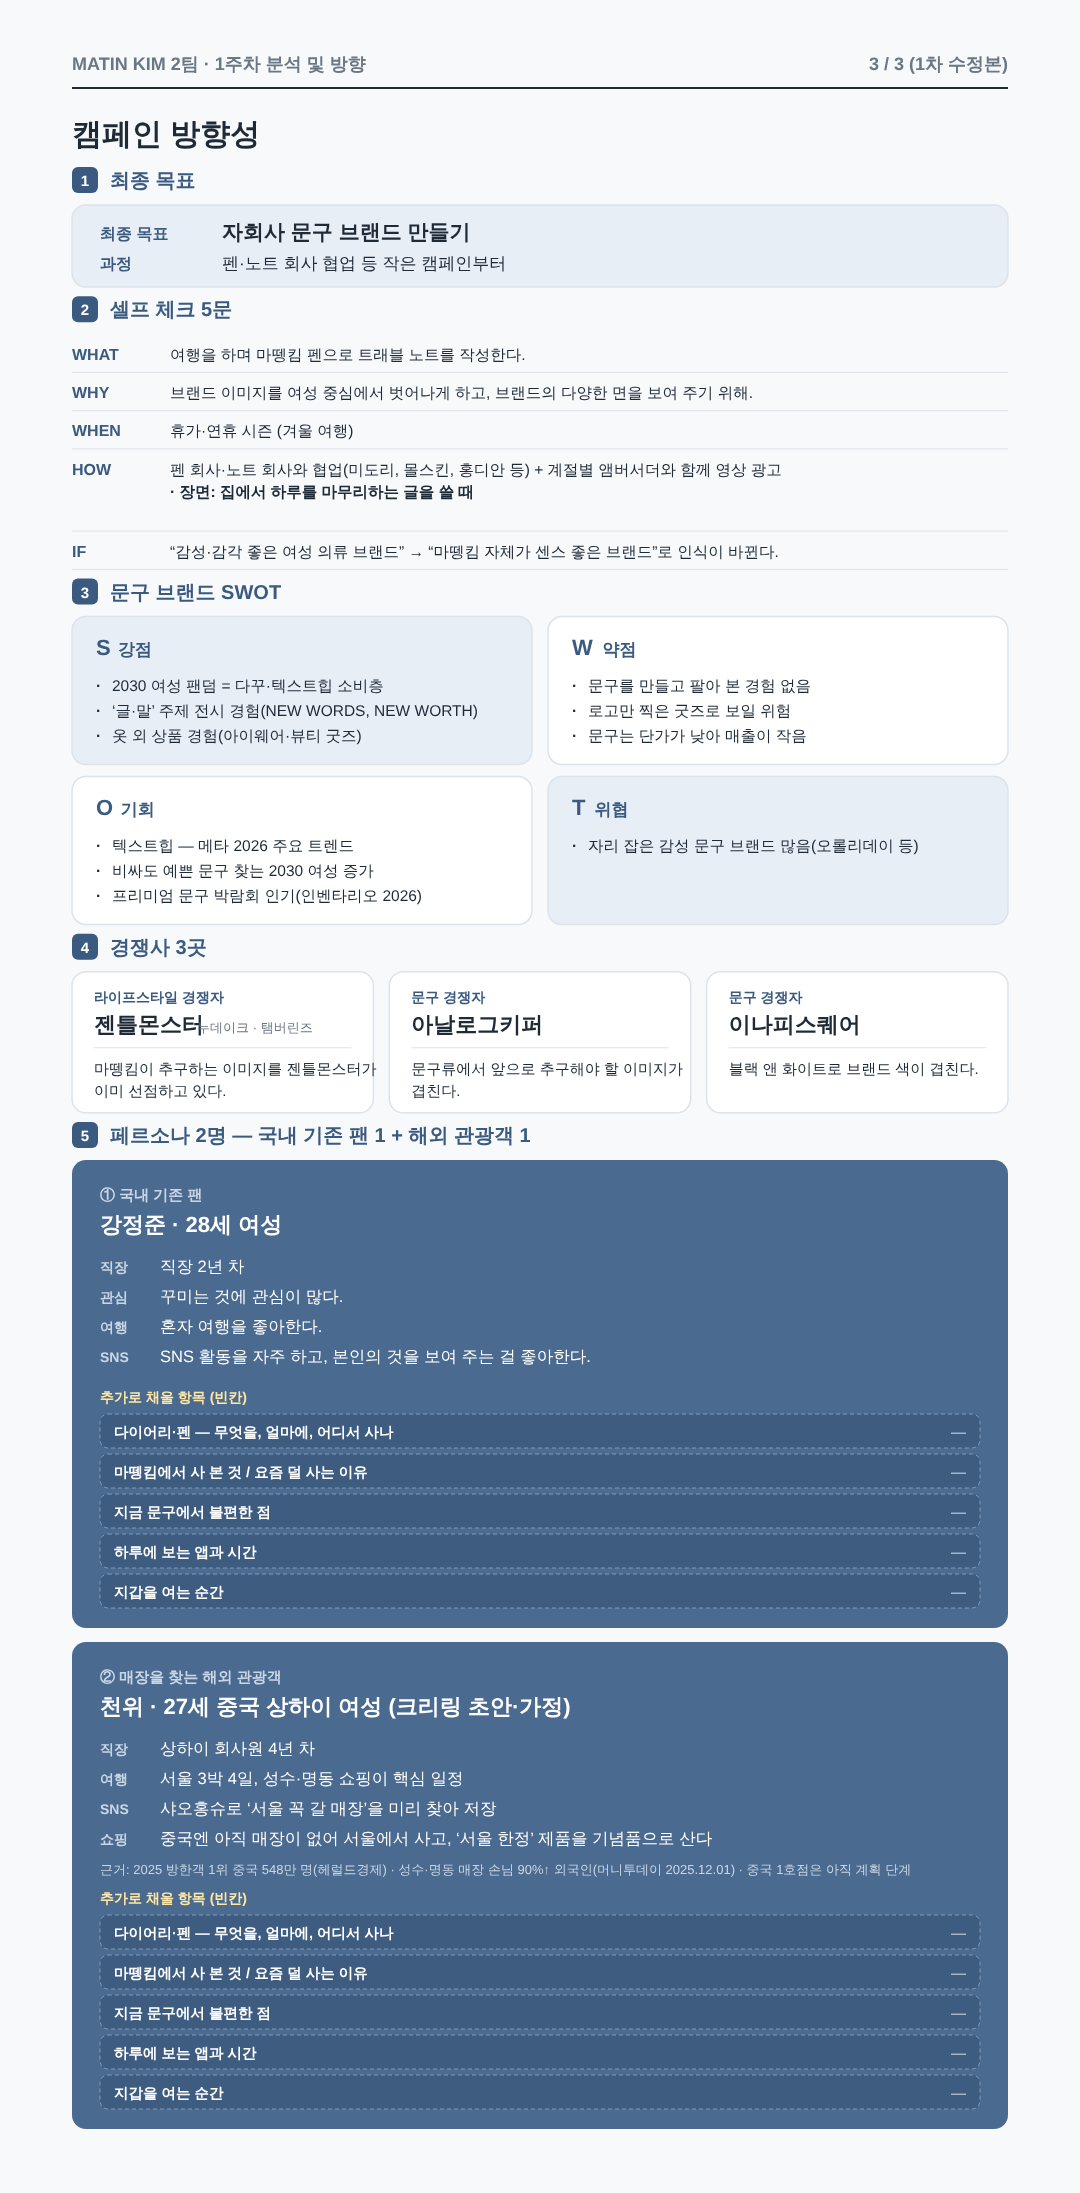
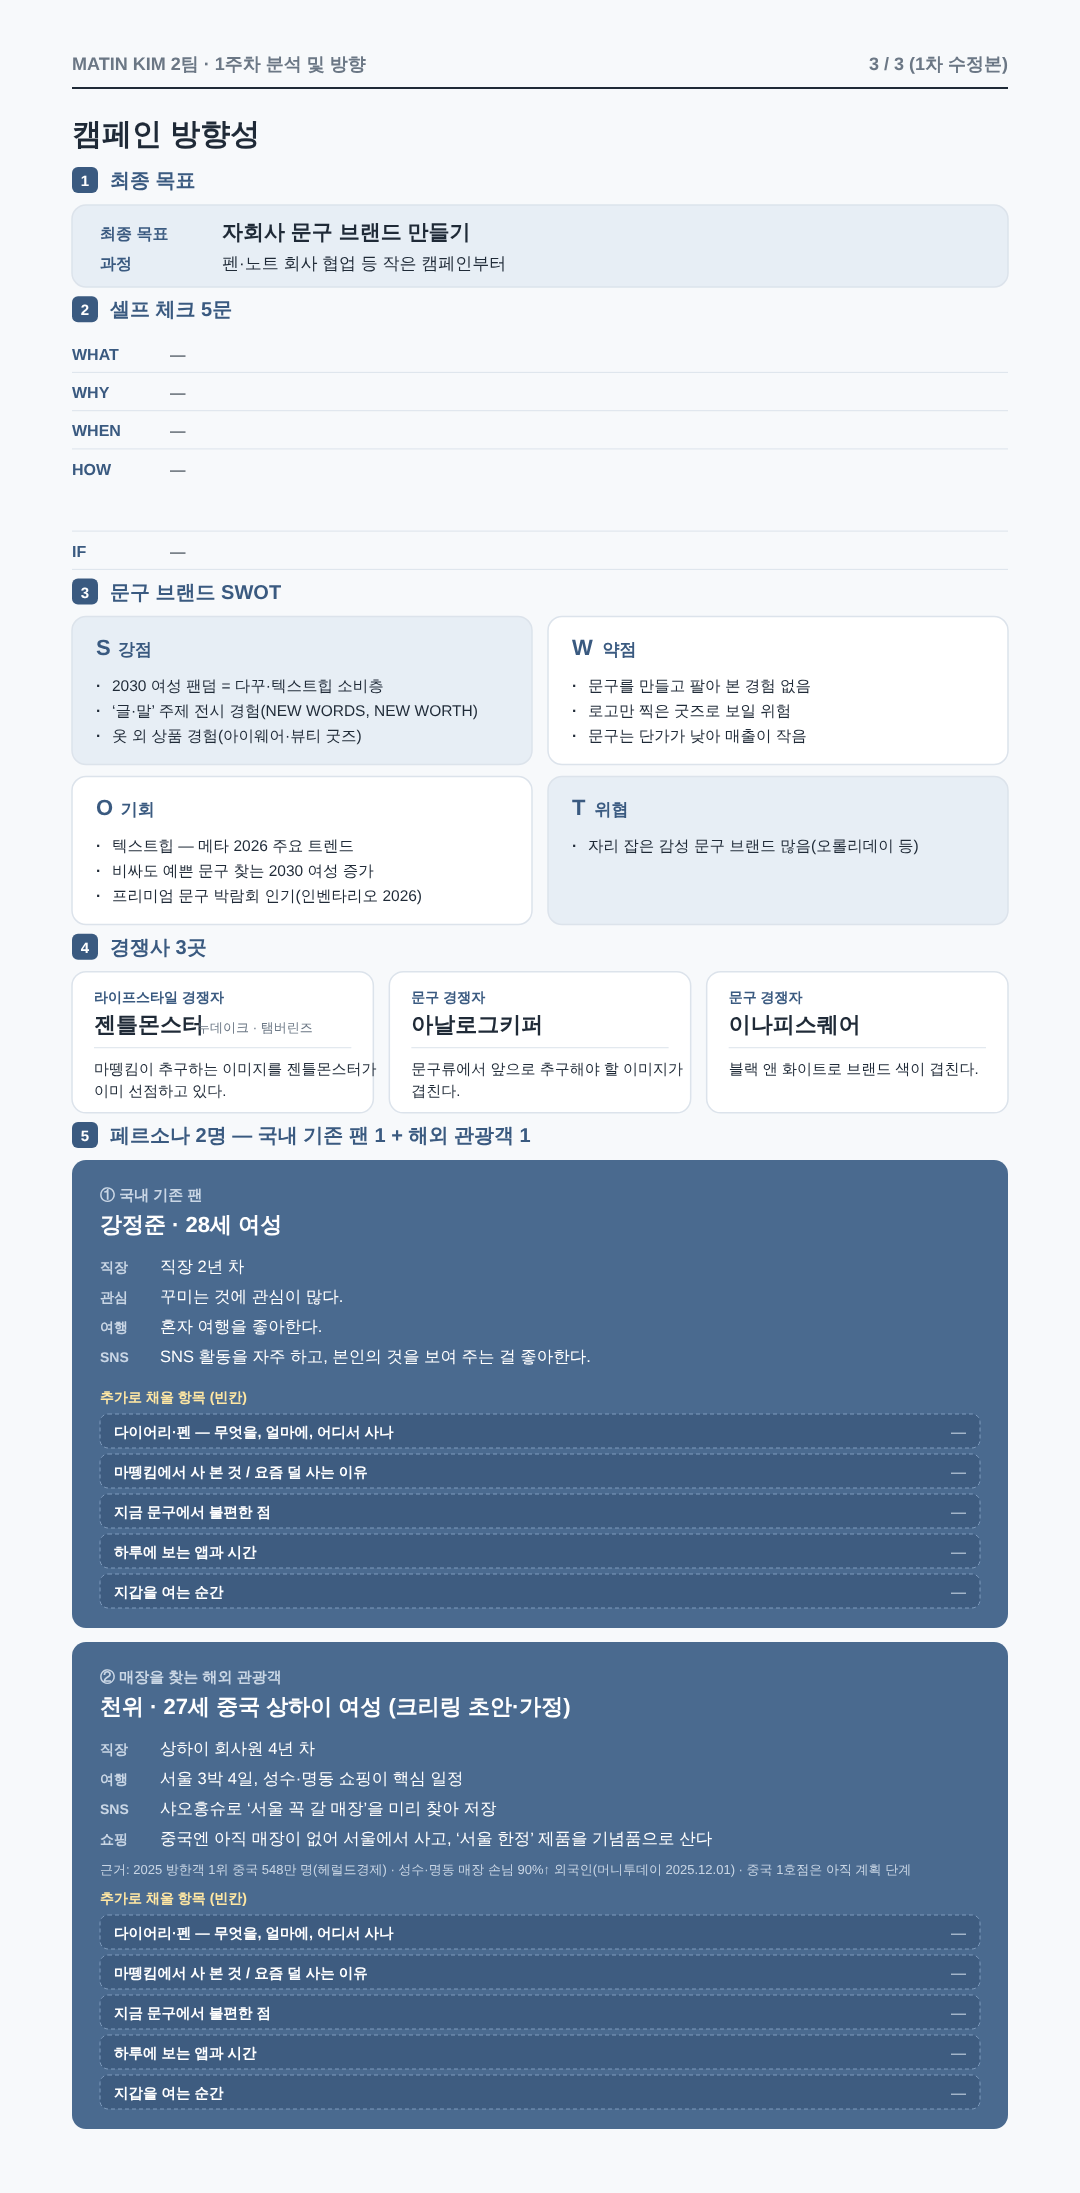
마뗑킴 1주차 3장 수정본: 셀프 체크 5문 답을 비워 다시 채울 수 있게 함
Claude-Session: https://claude.ai/code/session_01VwLjVDGdAiHBZZApEEYoS9

Changed region(s): [[0.1528, 0.155, 0.4889, 0.2481]]

diff --git a/개인공부/마케팅교육/마뗑킴_1주차_수정본_SWOT근거.md b/개인공부/마케팅교육/마뗑킴_1주차_수정본_SWOT근거.md
@@ -9,7 +9,7 @@
 - 약점 '국내 인기 식는 중'은 해외·관광객(숫자 있음) / 국내 2030 체감 인기(근거 못 찾음)로 나눔
 - '국내외 여행객 증가'는 '외국인 관광객 증가'와 겹쳐서 합침
 - 위협 추가: 문구 사업의 가격 경쟁(다이소), 재고 부담(메가커피 굿즈), 굿즈 피로감(근거 못 찾음 → 지표)
-- 3장 HOW: 여행 장면 2개(건강한 여행·오락성 여행) → "집에서 하루를 마무리하는 글을 쓸 때" 장면 하나로 바꿈 (WHAT·WHEN은 아직 '여행'이라 맞춰야 함)
+- 3장 셀프 체크 5문(WHAT·WHY·WHEN·HOW·IF): 답을 모두 비움(2026-11-13 요청, "—"로 표시). 강정준비준이 다시 채운다. (HOW 장면 후보였던 것: "집에서 하루를 마무리하는 글을 쓸 때")
 - 페르소나 2명: ① 국내 기존 팬(기존 강정준 28세) ② 매장을 찾는 해외 관광객(천위 27세 상하이, 크리링 초안·가정). 둘 다 빈칸 5개 추가: 다이어리·펜(무엇·얼마·어디서) / 마뗑킴 구매 경험·덜 사는 이유 / 문구 불편한 점 / 하루에 보는 앱·시간 / 지갑을 여는 순간
 
 ## 출처
